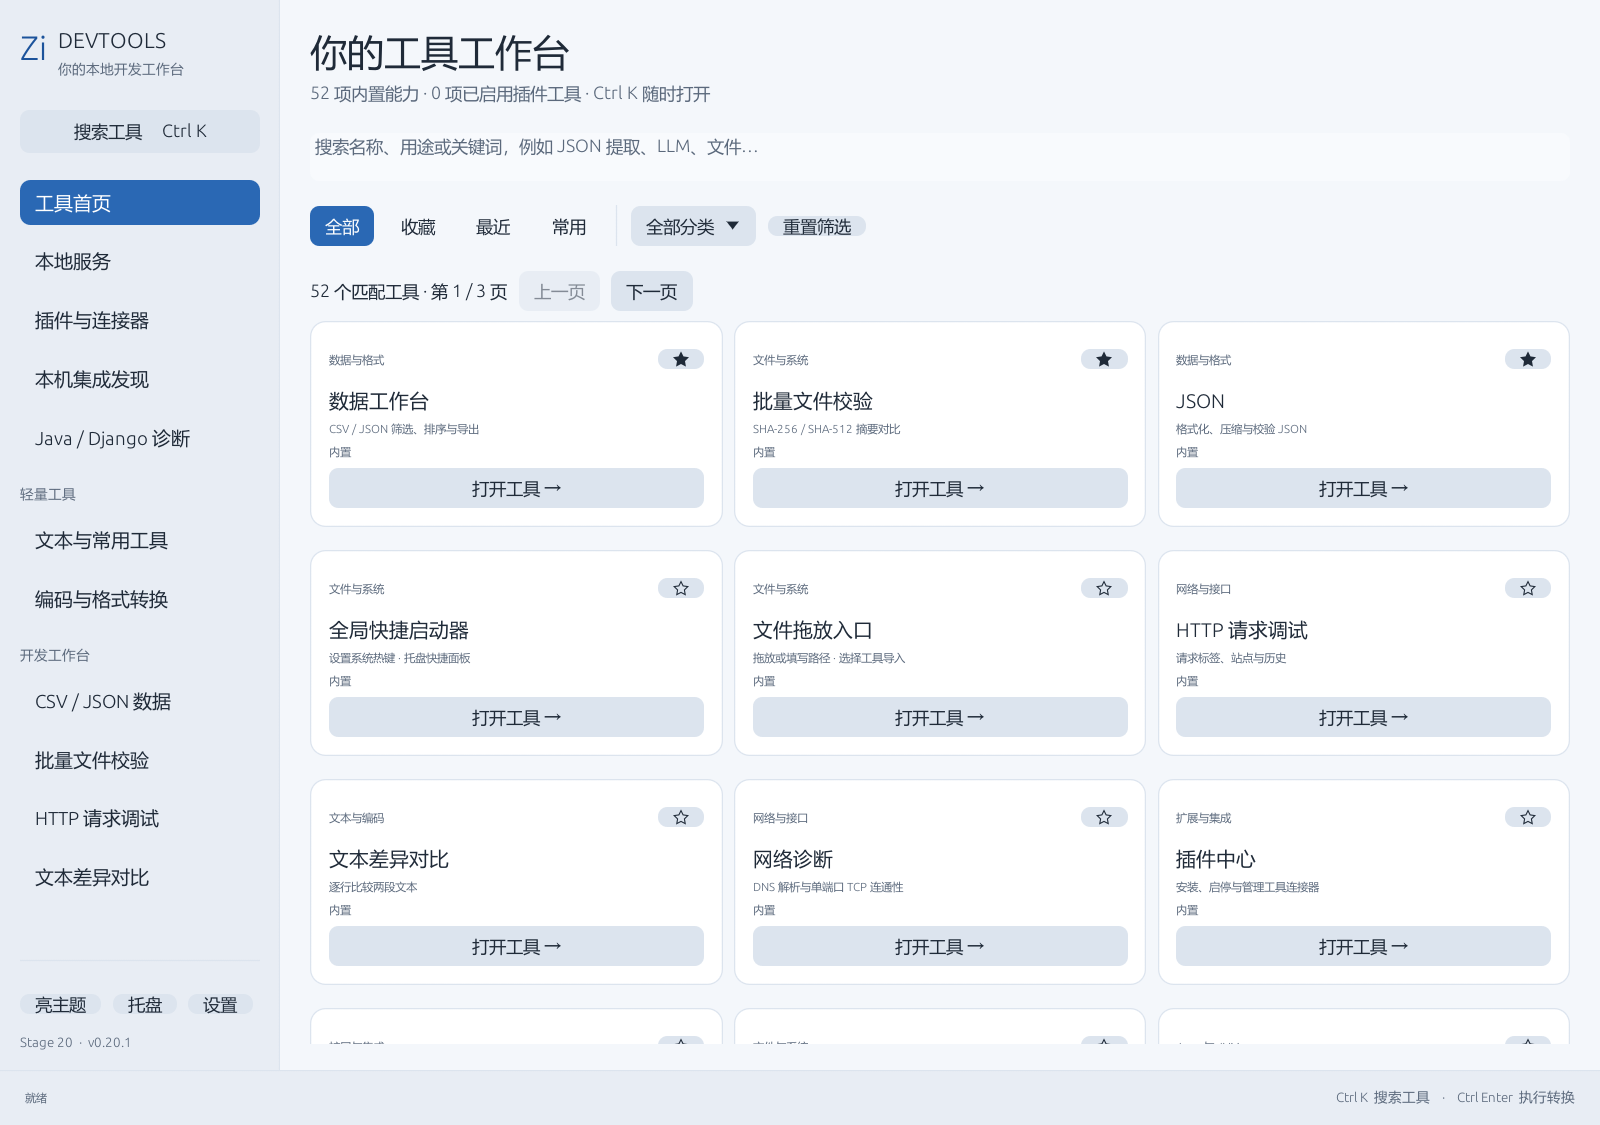
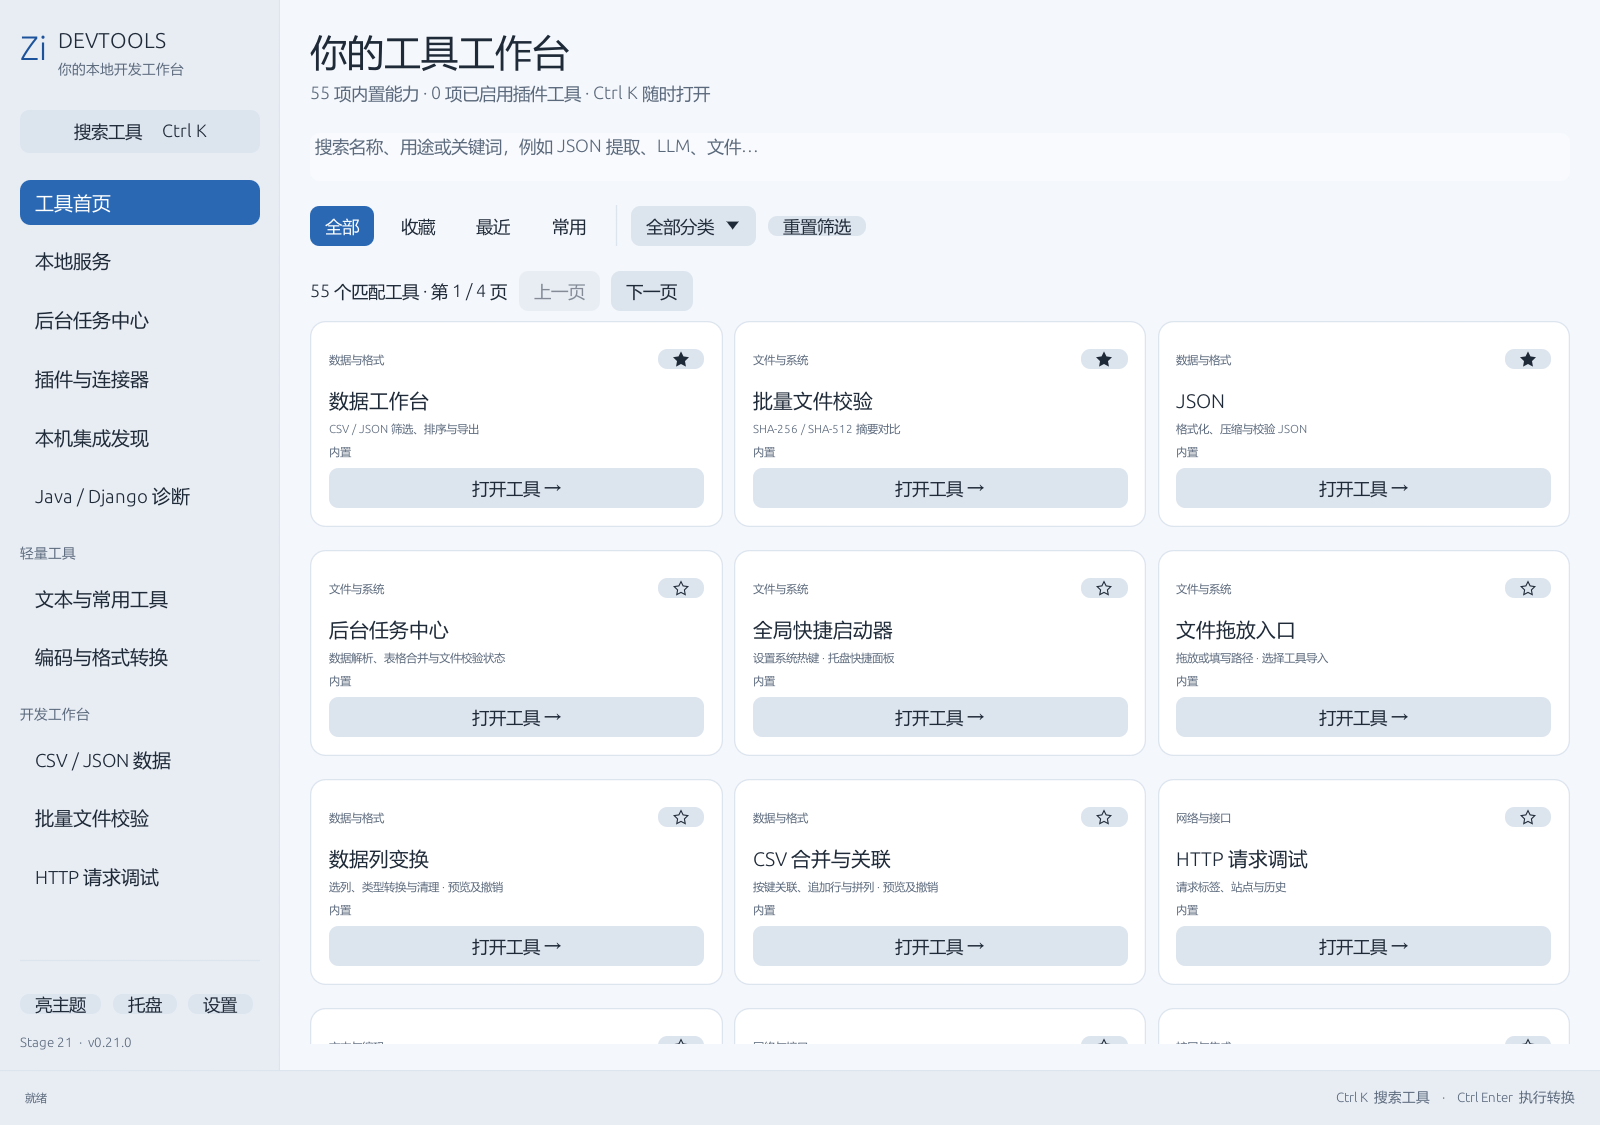
Prepare Stage 21 release documentation and workspace preview

diff --git a/README.md b/README.md
@@ -67,9 +67,9 @@ ZiDevTools.exe --import-config C:\path\to\existing-services.yml
 
 ## 交付状态
 
-最新公开版本：Stage 20 / v0.20.1，Windows 可运行目录 `dist\Stage-20`。
+Stage 21 / v0.21.0：Windows 可运行目录 `dist\Stage-21`；公开安装包以 [GitHub Release](https://github.com/ax2/zi-devtools/releases/latest) 为准。
 
-Stage 21 / v0.21.0 开发中：结果互传已接入文本工具、数据导出、HTTP 完整响应与诊断报告；预览后明确替换目标输入；数据工作台增加列转换、两表合并与关联、后台预览和单步撤销；任务中心支持数据解析/合并与文件校验，准备验收发版。[数据处理说明](docs/data-workbench.md)。
+Stage 21 新增：结果互传已接入文本工具、数据导出、HTTP 完整响应与诊断报告；预览后明确替换目标输入；数据工作台增加列转换、两表合并与关联、后台预览和单步撤销；任务中心支持数据解析/合并与文件校验，本地验收通过。[数据处理说明](docs/data-workbench.md)。
 
 - **Stage 20 快捷入口**：全局热键、独立托盘快捷面板、文件拖放与导入；原生右键菜单保留。合并重复 SQLite 规划。
 - **Java / Django 专项**：原有 14 项规划均已提供首版入口；独立诊断工作台、分类/收藏/最近/Ctrl K/托盘直达、后台任务、文件导入与报告保存。[支持格式与使用说明](docs/java-django-tools.md)。环境检查与 JFR 需要所选可信 JDK/Python；日志分析不需要安装它们。

diff --git a/docs/release-notes.md b/docs/release-notes.md
@@ -1,4 +1,4 @@
-# Zi DevTools v0.21.0（开发中，尚未发布）
+# Zi DevTools v0.21.0
 
 - 新增统一结果互传：来源快照、目标搜索、有限预览和明确替换输入。
 - 目标包括文本工具、CSV/TSV/JSON 数据工作台和文本对比左右输入；取消不修改草稿，忙碌目标拒绝覆盖。
@@ -8,6 +8,8 @@
 - 新增 CSV/TSV/JSON 两表合并与关联：内连接、左连接、同名列按行追加和等行数拼列；后台可取消预览、重复键/未匹配统计、同名列后缀及输出上限，应用后支持撤销。
 - 新增后台任务中心，接入数据解析/合并与文件校验：跨页面结果收取、耗时/状态、文件进度、最近 50 条内存记录、取消确认及返回工具；其他任务仍在对应工作台查看。
 - 当前 55 项已实现、62 项规划。可组合管线及其他工作台任务接入仍在后续计划中。
+
+验证：100 项单元测试、4 项 Windows 生命周期测试、78 个实际应用渲染场景；本地安装/卸载、EXE 哈希及独立配置启动通过。任务中心当前接入数据解析、合并与文件校验，其他工具任务暂在原工作台查看。
 
 ---
 

diff --git a/docs/releasing.md b/docs/releasing.md
@@ -20,6 +20,6 @@
 
 ## 验证基线
 
-Stage 20 已通过 79 项单元测试、4 项 Windows 生命周期集成测试和本地 EXE 冒烟。工作流另行验证干净 Windows runner 的完整构建及安装卸载；具体结果以 Actions 为准。
+Stage 21 已通过 100 项单元测试、4 项 Windows 生命周期集成测试和本地 EXE 冒烟。工作流另行验证干净 Windows runner 的完整构建及安装卸载；具体结果以 Actions 为准。
 
 升级前请从系统托盘选择退出 Zi DevTools。卸载仅移除程序与快捷方式，用户目录中的配置和服务状态保留。
